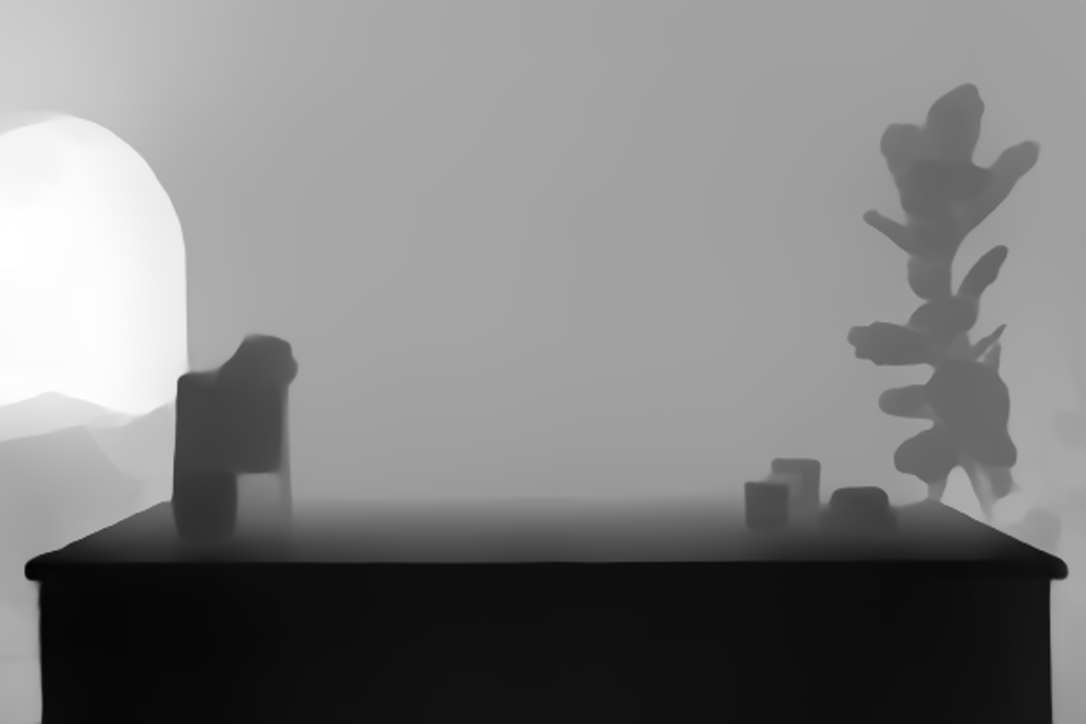
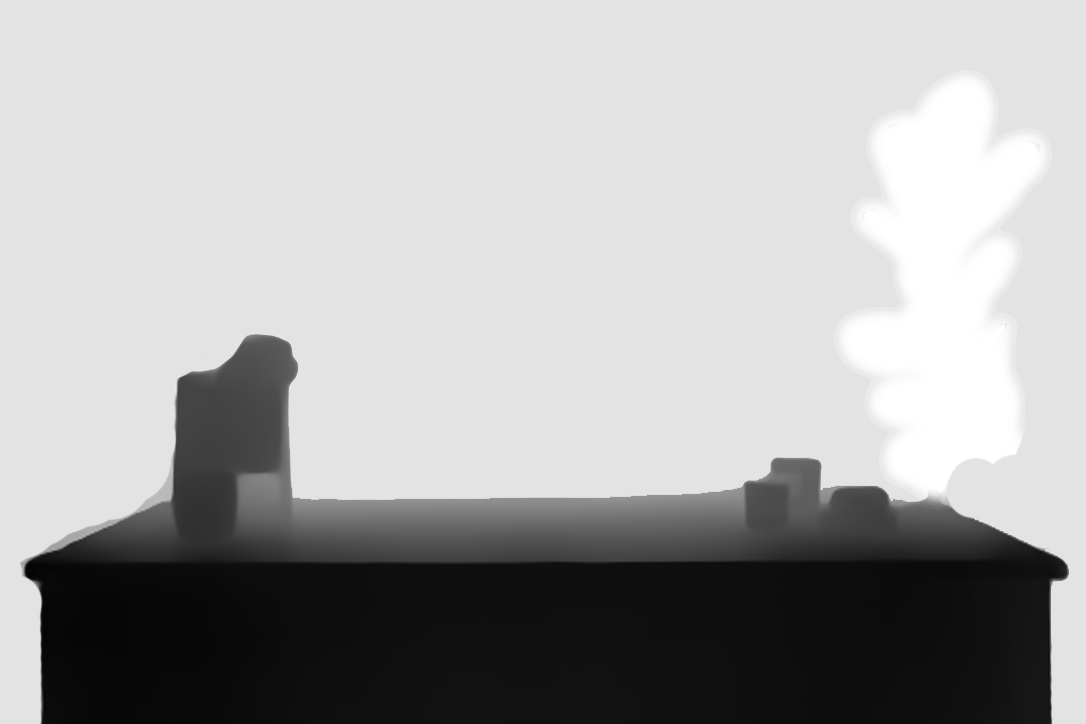
feat: Add inline Vagaro widget with warm color filter
- Fix widget loading using callback ref for proper DOM timing
- Add CSS sepia filter to match cream color scheme
- Skip provider fetch for booking view (fixes UUID error)
- Simplify widget container structure

🤖 Generated with [Claude Code](https://claude.com/claude-code)

diff --git a/src/components/panel-stack/panels/ServicePanel.tsx b/src/components/panel-stack/panels/ServicePanel.tsx
@@ -150,10 +150,18 @@ export function ServicePanel({ panel }: ServicePanelProps) {
     }
   }, [currentView, activeTab, filteredServices.length, data.subcategories, data.services.length, selectedService, selectedProviders, providers, panel.id, actions]);
 
-  // Fetch team members when service is selected
+  // Fetch team members when service is selected (only for service-detail view, not booking)
   useEffect(() => {
     async function fetchProviders() {
-      if (!selectedService) return;
+      // Skip if no service, in booking view, or service doesn't have a valid UUID
+      if (!selectedService || currentView === 'booking') return;
+
+      // Check if the ID looks like a UUID (basic check)
+      const isValidUuid = selectedService.id && selectedService.id.includes('-');
+      if (!isValidUuid) {
+        console.warn('Service ID is not a valid UUID, skipping provider fetch:', selectedService.id);
+        return;
+      }
 
       setIsLoadingProviders(true);
       try {
@@ -167,7 +175,7 @@ export function ServicePanel({ panel }: ServicePanelProps) {
     }
 
     fetchProviders();
-  }, [selectedService]);
+  }, [selectedService, currentView]);
 
   // Fetch gallery when service is selected
   useEffect(() => {
@@ -257,15 +265,18 @@ export function ServicePanel({ panel }: ServicePanelProps) {
       || ALL_SERVICES_WIDGET_SCRIPT;
   }, [selectedService]);
 
-  // Load Vagaro widget script when in booking view
-  useEffect(() => {
-    if (currentView !== 'booking' || !widgetContainerRef.current || scriptLoadedRef.current) return;
+  // Load Vagaro widget when container is mounted (using callback ref)
+  const loadWidgetIntoContainer = useCallback((container: HTMLDivElement | null) => {
+    if (!container || currentView !== 'booking' || !selectedService) return;
 
-    const container = widgetContainerRef.current;
-    const widgetScriptUrl = getWidgetScriptUrl();
+    // Store ref for potential cleanup
+    widgetContainerRef.current = container;
 
     // Clear any existing content
     container.innerHTML = '';
+
+    const widgetScriptUrl = getWidgetScriptUrl();
+    console.log('Loading Vagaro widget:', widgetScriptUrl);
 
     // Create the Vagaro widget structure
     const vagaroDiv = document.createElement('div');
@@ -279,11 +290,12 @@ export function ServicePanel({ panel }: ServicePanelProps) {
     script.async = true;
 
     script.onload = () => {
+      console.log('Vagaro widget script loaded');
       setIsBookingLoading(false);
-      scriptLoadedRef.current = true;
     };
 
-    script.onerror = () => {
+    script.onerror = (e) => {
+      console.error('Vagaro widget script failed to load', e);
       setIsBookingLoading(false);
       setHasBookingError(true);
     };
@@ -291,15 +303,11 @@ export function ServicePanel({ panel }: ServicePanelProps) {
     vagaroDiv.appendChild(script);
     container.appendChild(vagaroDiv);
 
-    // Set a timeout to hide loading after a reasonable time
-    const timeout = setTimeout(() => {
+    // Fallback timeout to hide loading
+    setTimeout(() => {
       setIsBookingLoading(false);
-    }, 3000);
-
-    return () => {
-      clearTimeout(timeout);
-    };
-  }, [currentView, getWidgetScriptUrl]);
+    }, 5000);
+  }, [currentView, selectedService, getWidgetScriptUrl]);
 
   // Provider selection handlers
   const handleProviderToggle = (providerId: string) => {
@@ -831,8 +839,14 @@ export function ServicePanel({ panel }: ServicePanelProps) {
               exit={{ opacity: 0, x: 20 }}
               transition={{ duration: 0.2 }}
             >
-              {/* CSS to override Vagaro widget styles and crop the header */}
+              {/* CSS to override Vagaro widget styles and apply cream tint */}
               <style jsx global>{`
+                /* Shell container with cream background for blend mode to work */
+                .vagaro-widget-shell {
+                  background: rgb(250, 247, 241); /* cream */
+                  border-radius: 12px;
+                }
+
                 /* Force Vagaro container to be full width */
                 .vagaro-widget-container,
                 .vagaro-widget-container .vagaro {
@@ -848,33 +862,13 @@ export function ServicePanel({ panel }: ServicePanelProps) {
                   display: none !important;
                 }
 
-                /* Inner wrapper that gets pulled up to crop the header */
-                .vagaro-iframe-wrapper {
-                  position: relative;
-                  margin-top: -330px;
-                  padding-top: 0;
-                  width: 100% !important;
-                }
-
                 /* Style the iframe */
                 .vagaro-widget-container iframe {
                   width: 100% !important;
                   max-width: none !important;
-                  min-height: 800px !important;
+                  min-height: 700px !important;
                   border: none !important;
                   display: block;
-                }
-
-                /* Mask to hide the cropped area with a gradient fade */
-                .vagaro-crop-mask {
-                  position: absolute;
-                  top: 0;
-                  left: 0;
-                  right: 0;
-                  height: 30px;
-                  background: linear-gradient(to bottom, var(--color-cream, #F5F0E8) 0%, transparent 100%);
-                  pointer-events: none;
-                  z-index: 5;
                 }
               `}</style>
 
@@ -890,11 +884,21 @@ export function ServicePanel({ panel }: ServicePanelProps) {
                 </div>
               </div>
 
-              {/* Full Width Vagaro Widget Container with cropping */}
-              <div className="relative overflow-hidden w-full -mx-4 md:-mx-6">
-                {/* Loading State */}
+              {/* Vagaro Widget Container with warm/cream tint filter */}
+              <div className="relative w-full" style={{ minHeight: '500px' }}>
+                {/* Widget container with CSS filter to warm up colors */}
+                <div
+                  ref={loadWidgetIntoContainer}
+                  style={{
+                    minHeight: '500px',
+                    // CSS filter to make white appear cream/warm
+                    filter: 'sepia(10%) saturate(95%) brightness(99%)',
+                  }}
+                />
+
+                {/* Loading State - overlay on top */}
                 {isBookingLoading && (
-                  <div className="absolute inset-0 z-10 flex items-center justify-center bg-cream/80 min-h-[400px]">
+                  <div className="absolute inset-0 flex items-center justify-center bg-cream/90 z-10">
                     <div className="text-center">
                       <Loader2 className="w-8 h-8 text-dusty-rose animate-spin mx-auto mb-3" />
                       <p className="text-sm text-dune/60">Loading booking...</p>
@@ -902,9 +906,9 @@ export function ServicePanel({ panel }: ServicePanelProps) {
                   </div>
                 )}
 
-                {/* Error State */}
+                {/* Error State - overlay on top */}
                 {hasBookingError && (
-                  <div className="absolute inset-0 z-10 flex items-center justify-center bg-cream/80 min-h-[400px]">
+                  <div className="absolute inset-0 flex items-center justify-center bg-cream/90 z-10">
                     <div className="text-center max-w-sm px-4">
                       <AlertCircle className="w-10 h-10 text-terracotta mx-auto mb-3" />
                       <h3 className="font-medium text-dune mb-2">Unable to load booking</h3>
@@ -914,16 +918,6 @@ export function ServicePanel({ panel }: ServicePanelProps) {
                     </div>
                   </div>
                 )}
-
-                {/* Gradient mask at top to smooth the crop */}
-                <div className="vagaro-crop-mask" />
-
-                {/* Widget container - pushed up to crop the header */}
-                <div
-                  ref={widgetContainerRef}
-                  className="vagaro-widget-container vagaro-iframe-wrapper px-4 md:px-6"
-                  style={{ minHeight: '500px' }}
-                />
               </div>
             </motion.div>
           )}

diff --git a/src/components/landing-v2/sections/WelcomeSection.tsx b/src/components/landing-v2/sections/WelcomeSection.tsx
@@ -41,7 +41,7 @@ export function WelcomeSection() {
         {!isMobile ? (
           <ParallaxImage
             src="/lashpop-images/frontdeskeditwgradientedit2.webp"
-            depthSrc="/lashpop-images/frontdeskeditwgradientedit2_depth.png"
+            depthSrc="/lashpop-images/frontdeskeditwgradientedit2_depthv4.png"
             alt="LashPop Studio Desk"
             className="absolute inset-0 w-full h-full"
             parallaxAmount={0.15}
